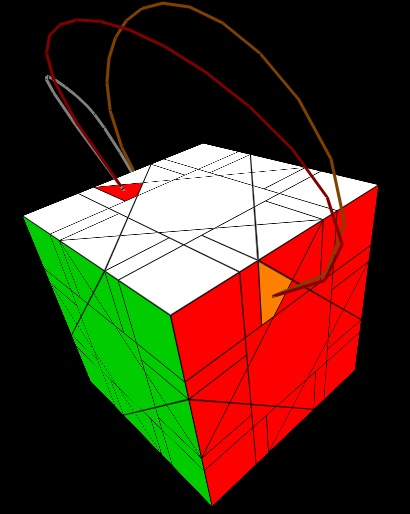
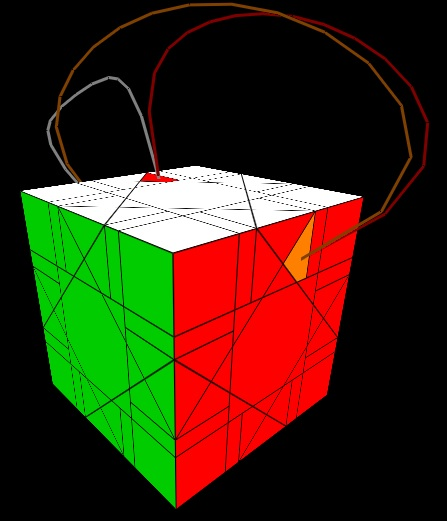
bagua updates

diff --git a/puzzle_bagua.html b/puzzle_bagua.html
@@ -7,24 +7,102 @@
 		<center><img src="images/bagua.jpg"></center>
 		<h1>Bagua</h1>
 		<p>
-		This puzzle is not for everyone, because it is quite difficult and time consuming.  I enjoy sitting down and solving it all at once in about an hour, or doing it about 5 minutes at a time over a few days while taking breaks at work or waiting for a process to complete, etc.
+		This puzzle is not for everyone, because it is quite difficult and time consuming.  I enjoy sitting down and solving it all at once in about an hour, or doing it about 5 minutes at a time over a few days while taking breaks at work.
 		</p>
+		<p>
+		The solve steps given here will make use of the following naming convention for the parts of the puzzle.
+		</p>
+		<center><img src="images/bagua_parts.jpg"></center>
 		<h3>Step 1</h3>
 		<p>
 		Up to the sliver peices, get it back into cube shape.  In other words, it would be a perfect cube save some sliver peices may be gently poking out the sides of the cube.  This just takes a lot of time and patience depending on how bandaged the puzzle has become.  Think about the Rubik's cube sequences you already know and how they can help.
 		</p>
 		<h3>Step 2</h3>
 		<p>
-		The crux of the puzzle is to solve the last two edge blocks.  All sequences described here assume that these last two edge blocks are in the top layer opposite one another; one in the front, the other in the back.
+		The sliver peices are now all that remain in terms of resolving the cube-shape of the puzzle.
+		There can be one or two mis-oriented slivers per edge block.  When there are two, they can poke out the same or opposite sides of the block.
+		The former case is desired and the latter case is quite bandaging, so separate them whenever you can.  Pair all the mis-oriented slivers so
+		that they reside on the same side of an edge-block.
 		</p>
 		<p>
-		Lastly, we must permute the kite pieces into place across the last two edge blocks.  To do this, we'll need 3 sequences <code>A</code>, <code>B</code> and <code>C</code> that can be used to create the kite tri-cycle <code>D=2[2[A,B],C]</code>.
-		The sequences are <code>A=2{Ri,2|F|,Fi,Ui,F,U,R,U,Ri,2|Fi|,F}</code>, <code>B=2{Ri,Li,Fi,Bi},U,2{Ri,Li},4D,2{R,L},Ui,2{F,B,R,L}</code> and <code>C=R,B,4U,Ri,Bi</code> or <code>C=Ri,Bi,4U,R,B</code>.  This is quite an involved sequence, but it isn't
-		too hard to remember.  I call <code>A</code> the edge flip, and it can be done in any way that simply flips the edge block over without the disturbing the other edge block; I call <code>B</code> the edge center swap; and <code>C</code> a clock-split or counter-clock-split.  The two varients of <code>C</code>, along with knowing <code>D</code> forward and
-		backards gives you four different kite tri-cycles across the remaining two edge blocks.
+		Having an edge block with two mis-oriented slivers on the same side of it, use <code>X=7[2R,(1/2)U,2U,(1/2)Ui]</code> to orient these slivers when the edge block is placed in the <code>RD</code> edge with the slivers poking out of the <code>R</code> face.
 		</p>
 		<p>
-		While getting the kites positioned, it will become clear why making sure that the final two edge blocks share a common color becomes an advantage if it looks as if the final two kites needs to be swapped.
+		Note that you can solve 4 such blocks simultaneously by swapping 4 corners with 4 edge-block centers.  The basic idea is <code>Y=2[(1/2)Ri,(F,3[R,U,Ri,Ui],Fi)]</code> done twice from the appropriate perspectives.
+		</p>
+		<h3>Step 3</h3>
+		<p>
+		With the puzzle back in perfect cube shape, we're ready to solve the corner triangles up their proper face, or the face opposite their proper face.  It won't matter which face as they'll constantly be flipping back and forth between those two faces during step 4.  We'll resolve them once and for all in step 6.
+		</p>
+		<p>
+		A convenient sequence that permutes corner triangles across adjacent faces is <code>(1/2)Fi,(1/2)Ri,U,(1/2)R,2F,(1/2)Ri,Ui,(1/2)R,(1/2)F</code> and it's clear symmetric varient.  This will get much of the job done.  For the remainder of corner triangles that can't be solved this way, use the sequence <code>X</code> in step 2 to move the top-facing edge triangle in the <code>RU</code> edge block into the corner triangle position in the <code>RUB</code> corner and top-face.  Of course, this will also create a pair of mis-oriented slivers in an edge-block, so you must apply <code>X</code> an even number of times.  If an odd number of appliations is needed, move an edge triangle of one color into a corner triangle of the same color.  The following illustrates the action of <code>X</code>.
+		</p>
+		<center><img src="images/bagua_vpair_tri_permute.jpg"></center>
+		<h3>Step 4</h3>
+		<p>
+		Now comes the most time-consuming part.  We must solve 10 of the 12 edge blocks.  For reasons that will become clear, make sure that the last 2 unsolved edge blocks share a common color.  We'll solve those 2 in step 5.
+		</p>
+		<p>
+		To get the edge blocks solved, you will apply the sequence <code>Z=(1/2){Fi,Bi},2U,(1/2){F,B}</code>, or its obvious varients, over and over again; but be assured, this is the only sequence, with the exception of setups, that you're going to need.  All setup moves will be sequences of 90-degree rotations of the faces.
+		</p>
+		<p>
+		As far as strategy goes, I like to solve edge block centers and the remainder of an edge block sepparately, and then bring them together with <code>W=(1/2)Ui,Ri,L,2D,R,Li,(1/2)U</code>, which, not contradicting what I said earlier, is not necessary, but convenient.
+		</p>
+		<p>
+		Note that nearing 10 solved edge-blocks, you'll find it necessary to temporarily unsolve a pair of edge-blocks, and then resolve them with another applicatoin of <code>Z</code>.
+		</p>
+		<h3>Step 5</h3>
+		<p>
+		Surely this is the crux of the puzzle; the part where we solve the remaining 2 edge blocks which, of course, must be done simultaneously.  This is also where we're going to find out if we have parity.
+		</p>
+		<p>
+		Use the sequence <code>Z</code> with proper setups to solve the 4 sliver peices across the 2 edge blocks.  Since <code>Z</code> must be applied an even number of times, you may need to swap 2 slivers of the same color-pair.
+		</p>
+		<p>
+		With the slivers solved, use <code>W</code> to solve the edge pieces across the 2 edge blocks.  If they're both oriented properly, we're good to go.  If exactly one is mis-oriented, then we have parity!  In that case, go to step P below, then revisit this step.
+		</p>
+		<p>
+		Assuming we don't have parity, continue to use <code>W</code> to solve all 4 edge triangles across the 2 edge blocks.  This is an example of where there being a common color shared between these last 2 edge blocks comes in handy.
+		</p>
+		<p>
+		With all 4 slivers, all 4 edge triangles, and both edge peices solved across the 2 remaining edge blocks, all that remains are the 8 kites peices.  These are solved using a tri-cycle requiring that the 2 edge blocks be setup in the <code>FU</code> and <code>BU</code> edge locations.  The tri-cycle is
+		<code>2[2[U,V],Z]</code>, where <code>U=Fi,2|F|,(Fi,Ui,F),U,(R,U,Ri),2|Fi|,F</code> and <code>V=F,B,R,L,W,Li,Ri,Bi,Fi</code>.  Note that <code>Z</code> may be replaced with <code>(1/2){F,B},2U,(1/2){Fi,Bi}</code> to reverse the direction of the tri-cycle.  The following two diagrams illustrate the action of the tri-cycle.
+		</p>
+		<center><img src="images/bagua_kite_tri_cycle_A1.jpg"><img src="images/bagua_kite_tri_cycle_A2.jpg"></center>
+		<p>
+		If the varient <code>2[2[V,U],Z]</code> is used, the action is shifted symmetrically as follows.
+		</p>
+		<center><img src="images/bagua_kite_tri_cycle_B1.jpg"><img src="images/bagua_kite_tri_cycle_B2.jpg"></center>
+		<p>
+		Don't forget that you can seemingly swap a pair of kites in a tri-cycle because the last 2 unsolved edge-blocks share a common color.
+		</p>
+		<p>
+		Lastly, I'll note here that <code>2[U,V],Z,2[Vi,Ui],Zi</code> could also be used, and is a pure kite tri-cycle in the sense that nothing else about the cube is changed by the sequence.  We can get away with (and it is easier to remember) <code>2[2[U,V,]Z]</code>, however, because at this step, we do not need to preserve the position and orientation of the other edge blocks or the corner peices; we'll address that in the step 7.
+		</p>
+		<h3>Step 6</h3>
+		<p>
+		We now solve the corner triangle peices of step 3.  This is very easy.  We do nothing more than apply <code>Z</code> with proper setups.  Note that two corner triangles of the same color may need to be swapped as <code>Z</code> must be applied an even number of times.
+		</p>
+		<h3>Step 7</h3>
+		<p>
+		Finally, the puzzle now looks like nothing more than a scrambled 3x3, and indeed, that's exactly what it is.  Solve it using any 3x3 method of your choice.  You should have no trouble doing so.  That is, you should not encounter any difficulty that would be presented by, say, a single edge being flipped, or a single corner between twisted.
+		</p>
+		<p>
+		Bask in the glory of having solved the Bagua!
+		</p>
+		<h3>Step P</h3>
+		<p>
+		Here we solve the main parity of the Bagua puzzle as we have come to it from step 5.  If done right, you'll only need to re-solve 2 edge blocks before returning to step 5, and they solve very quickly.
+		</p>
+		<p>
+		For the purposes of this discussion, we'll say that red is the color shared by the 2 remaining unsolved edge blocks.
+		</p>
+		<p>
+		First, get the 2 red edge triangles solved in the 2 remaining unsolved edge blocks, then solve the positions of the 4 red corner triangles if not already solved.
+		Now move all 4 edge blocks having a red side, solved or not, so that they're oriented correctly and positioned against the red face.  Having done this, all 8 red triangles (4 corner triangles and 4 edge triangles) are now positioned properly in the red face along with as much as we have been thus far able to solve in terms of kites and slivers containing red.
+		</p>
+		<p>
+		Now comes the parity fix!  The fix is simply to rotate the red face 45-degrees in either direction, then re-solve up to step 5 without changing the orientation of the red face center, or any other.  To expedite this process, we can use the sequence <code>Y</code> of step 2 in the red face (i.e., <code>R</code> being the red face) to get 4 edge blocks, all containing red, to also contain 2 mis-oriented slivers each.  Now, if <code>X</code> is used correctly, it can solve these mis-oriented slivers while only doing damage to the 4 said edge blocks.  When applying <code>X</code>, put the 4 edge blocks in the <code>RD</code>, <code>RU</code>, <code>BD</code> and <code>BU</code> edge locations.  Once the mis-oriented slivers are resolved, 2 of the 4 edge-blocks will solve very quickly, and you're back to step 5.  Jus tmake sure that every application of <code>X</code> moves a red edge triangle to a red corner triangle.
 		</p>
 	</body>
 </html>

diff --git a/puzzle_flower_copter.html b/puzzle_flower_copter.html
@@ -31,7 +31,7 @@
 		With corners and edges solved, all that remains are the face pieces.  I call these the slivers and triangles.  In this step we solve all the triangle positions.  I simply use <code>(RU',LF'),FU,(RU',LF')i,FU</code> and its symmetric varient with setups to accomplish this.  The crux is figuring out the setup moves.  Some of them can be quite elaborate.  Try not to make them unnecessarily elaborate, however.  The longer the setup, the harder it is to unwind.
 		</p>
 		<p>
-		You can also use <code>(RU',LF'),FU,(RU',LF')i,(RF',LU')i,FU,(RF',LU')</code> with setups as well.  This as well as the previously mentioned sequence performs a pair of triangle face swaps.  Note that it is often useful to swap two triangle faces of the same color while swapping two other triangle faces of differring color.
+		You can also use <code>(RU',LF'),FU,(RU',LF')i,(RF',LU')i,FU,(RF',LU')</code> with setups as well.  This as well as the previously mentioned sequence performs a pair of triangle face swaps.  Note that it is often useful to swap two triangle faces of the same color while swapping two other triangle faces of differring color, or moving a triangle from one location on its face to another.
 		</p>
 		<h3>Step 5</h3>
 		<p>
